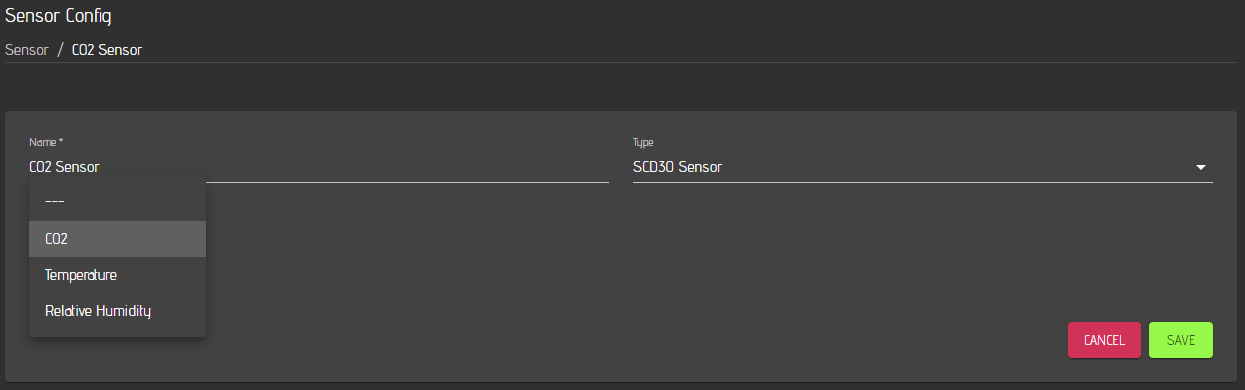
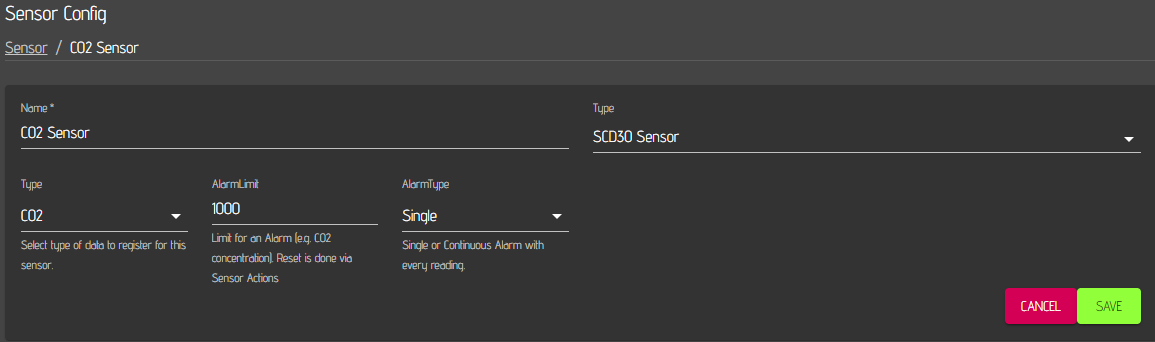
bump version and update README

diff --git a/setup.py b/setup.py
@@ -7,7 +7,7 @@ with open(path.join(this_directory, 'README.md'), encoding='utf-8') as f:
     long_description = f.read()
 
 setup(name='cbpi4-scd30-CO2-Sensor',
-      version='0.0.8.a4',
+      version='0.0.8',
       description='CraftBeerPi4 Plugin for SCD30 based CO2 Sensor',
       author='Alexander Vollkopf',
       author_email='avollkopf@web.de',

diff --git a/README.md b/README.md
@@ -1,24 +1,56 @@
 # CraftBeerPi4 SCD30 based CO2 Sensor Plugin
 
-### Sensors	
+## Sensors	
 
 Plugin will add system a sensor to monitor for instance CO2 monitoring in your fermentation room
 
 ![Sensor Config](https://github.com/avollkopf/cbpi4-scd30-co2-sensor/blob/main/cbpi4-scd30-settings.png?raw=true)
-	
+
+### Type
+
 - CO2: 					CO2 value in ppm
 - Relative Humidity:	Relative humidity in %
 - Temperatur:			Temperature
+
+### Alarmlimit
+
+- If a value is entered, an Alarm will be raised, if the sensor value is above the limit.
+- Delete the limit (or don't enter a limit) to disable the alarm.
+
+### Alarmtype
+
+- Single: 
+    - Alarm is raised once, if Sensor value is above Alarmlimit.
+    - Message is shown and can be removed from screen if you click 'ok'.
+    - No additional alarm is raised until you reset the alarm or until the sensor value falls below the alarm limit and is rising again above the limit.
+    - You can reset the alarm and then a new alarm is raised in single mode. Therefore you need to use the actions menu of your sensor.
+
+    ![Single Alarm](https://github.com/avollkopf/cbpi4-scd30-co2-sensor/blob/main/cbpi4-scd30-singlealarm?raw=true)
+
+    - You need to activate Actions for your Sensor in the dashboard (Please see CraftbeerPi Documentation) to activate the Action menu (3 dots)
+
+     ![3 dots](https://github.com/avollkopf/cbpi4-scd30-co2-sensor/blob/main/cbpi4-scd30-actionmenu?raw=true)   
+
+    - With The action menu, you can reset the sensor alarm:
+
+    ![Actions](https://github.com/avollkopf/cbpi4-scd30-co2-sensor/blob/main/cbpi4-scd30-actions?raw=true)   
+
+- Continuous:
+    - Notification is send / Alarm is played on every sensor reading if sensor value is above limit
+    - Notification is shown on the bottom right and does not persist on the screen.
+
+    ![Continuous Alarm](https://github.com/avollkopf/cbpi4-scd30-co2-sensor/blob/main/cbpi4-scd30-continuousalarm?raw=true)
+
 
 Each parameter has to be added as individual sensor.
 	
 ![Multiple Sensors](https://github.com/avollkopf/cbpi4-scd30-co2-sensor/blob/main/cbpi4-multiple-scd30.png?raw=true)
 
-### Installation: 
-- sudo pip3 install cbpi4-scd30_CO2_Sensor
-- or install from repo: sudo pip3 install https://github.com/avollkopf/cbpi4-scd30-co2-sensor/archive/main.zip
+## Installation: 
+- pipx runpip cbpi4 install cbpi4-scd30_CO2_Sensor
+- or install from repo: pipx runpip cbpi4 install https://github.com/avollkopf/cbpi4-scd30-co2-sensor/archive/main.zip
 	
-### Usage:
+## Usage:
 
 - Configure the update interval of the sensor data in the cbpi global settings. Although shorter cycles ar possible, 30 or 60 seconds should be more than sufficient.
 
@@ -26,7 +58,7 @@ Each parameter has to be added as individual sensor.
 
 - Add Hardware under Sensor and choose SCD30 Sensor as Type and select the parameter you want to monitor.
 
-### Hardware requirements:
+## Hardware requirements:
 
 A datasheet of the sensor can be found here: https://www.sensirion.com/fileadmin/user_upload/customers/sensirion/Dokumente/9.5_CO2/Sensirion_CO2_Sensors_SCD30_Datasheet.pdf
 
@@ -34,9 +66,9 @@ Information on how read from then sensor is documented here: https://cdn.sparkfu
 
 The sensor is connected via I2C and has the address 0x61. The user just needs to activate I2C in the raspi config and connect the sensor to the I2C bus. The supply voltage (VDD) can be 5V, but the I2C bus has to be at 3.3V
 
-### Changelog:
+## Changelog:
 
-- 02.01.23: (0.0.8.a4) Add Sensoralarm (Test)
+- 02.01.23: (0.0.8) Add Sensoralarm (single and continuous)
 - 28.07.23: (0.0.7.a2) add exception handling to read loop
 - 30.06.23: (0.0.7.a1) test closing loop to avoid errors
 - 10.06.23: (0.0.6) bump version to release
